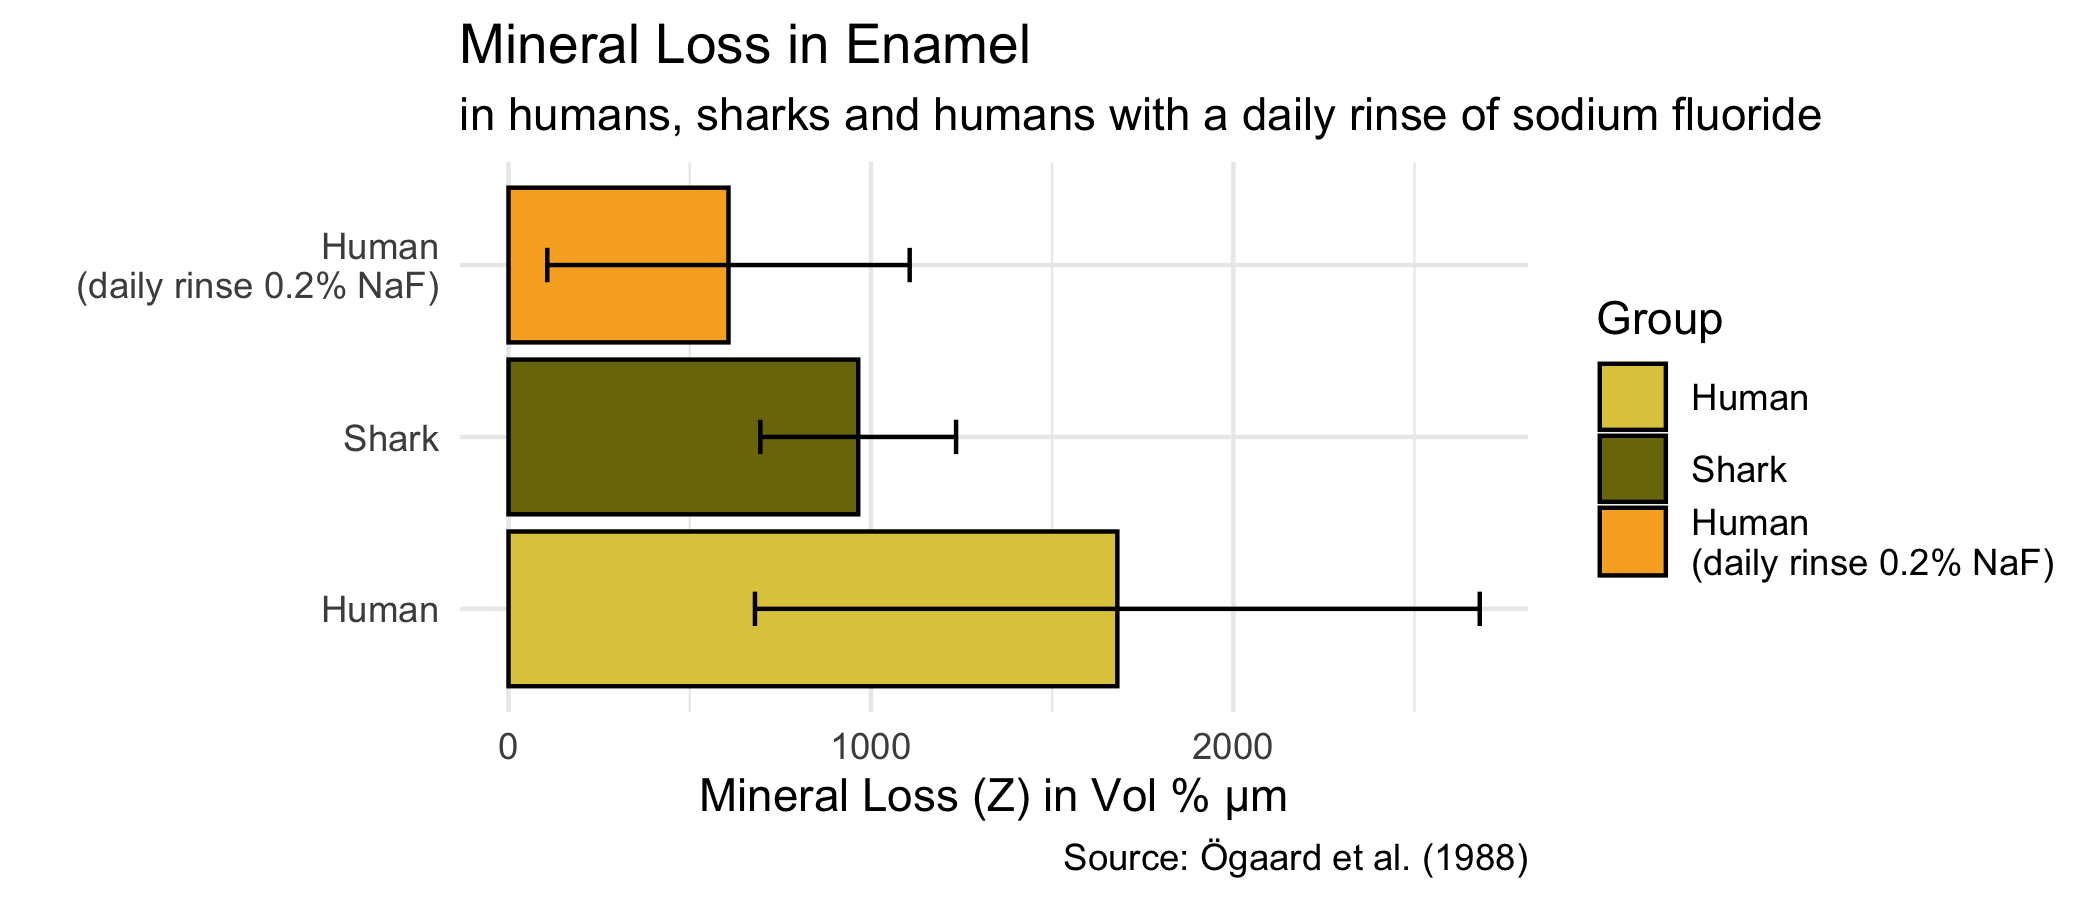
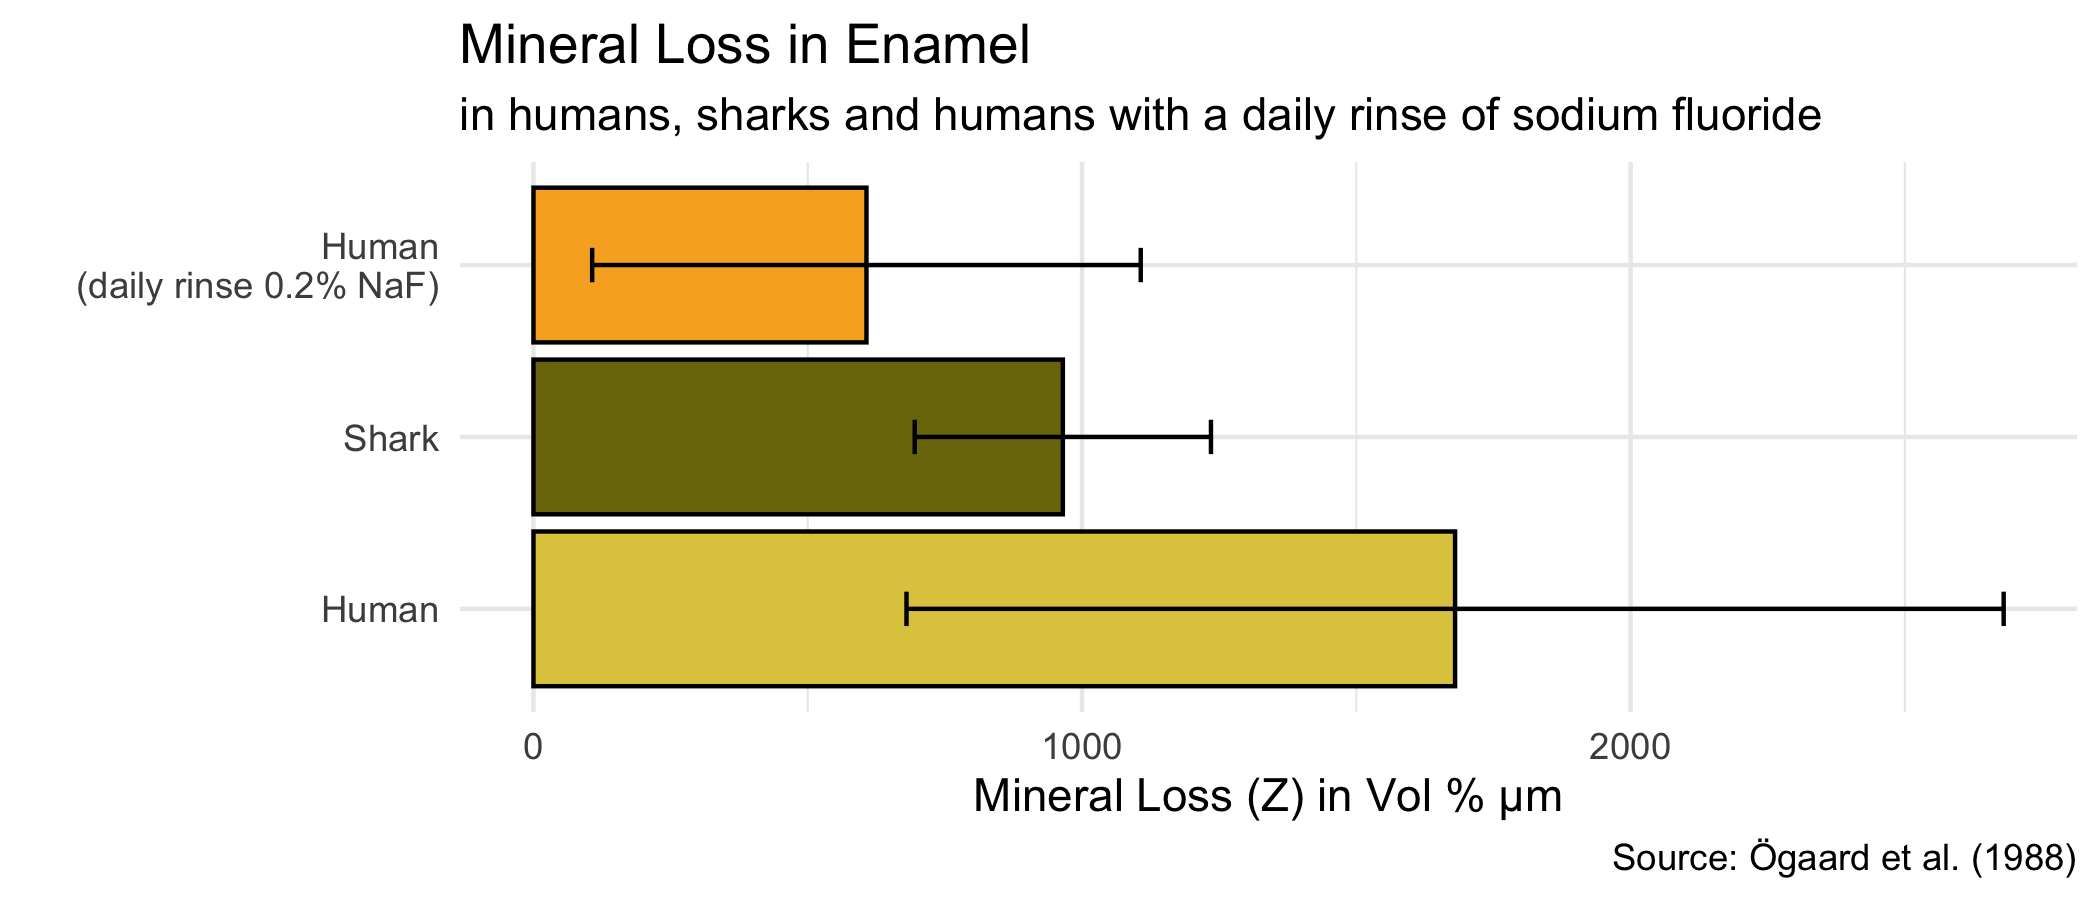
Remove legend from second example plot

diff --git a/README.md b/README.md
@@ -100,11 +100,11 @@ ggplot(data = enamel) +
     subtitle = "in humans, sharks and humans with a daily rinse of sodium fluoride",
     caption = "Source: Ögaard et al. (1988)",
     x = "",
-    y = "Mineral Loss (Z) in Vol % μm",
-    fill = "Group"
+    y = "Mineral Loss (Z) in Vol % μm"
   ) +
   coord_flip() +
   theme_minimal() +
+  theme(legend.position = "none") +
   scale_fill_persian("hamburg", direction = -1)
 ```
 
